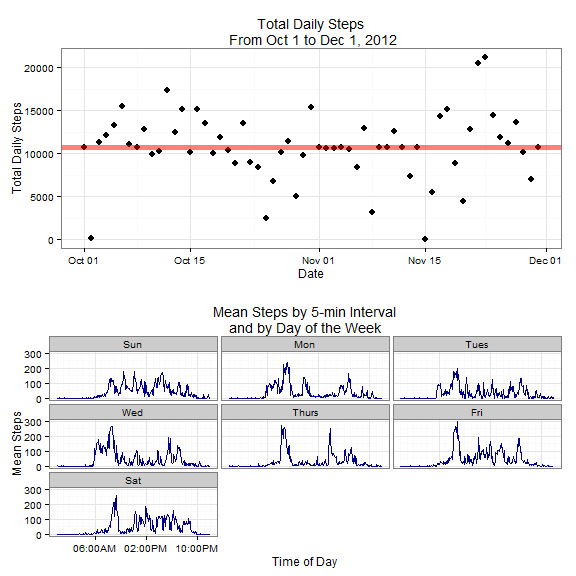
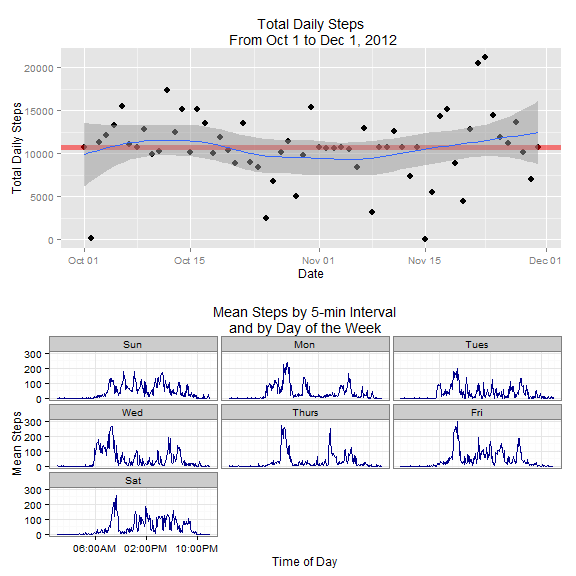
upload plots and .html final

Changed region(s): [[0.0312, 0.0625, 1.0, 0.4688]]

diff --git a/PA1_template.html b/PA1_template.html
@@ -422,9 +422,232 @@ plotX &lt;- ggplot(act5, aes(x=ymd(date),y=steps)) +
   geom_hline(yintercept=mean(act5$steps), color=&quot;red&quot;, lty=1, lwd=2, alpha=0.5) 
 plotX &lt;- plotX + labs(title=&quot;Total Daily Steps\n From Oct 1 to Dec 1, 2012&quot;, 
                       x=&quot;Date&quot;, y=&quot;Total Daily Steps&quot;) +
+  geom_smooth(method=&quot;loess&quot;, alpha=0.5)
   theme_bw()
+</code></pre>
 
-#aggregate by interval and day
+<pre><code>## List of 40
+##  $ line                :List of 4
+##   ..$ colour  : chr &quot;black&quot;
+##   ..$ size    : num 0.5
+##   ..$ linetype: num 1
+##   ..$ lineend : chr &quot;butt&quot;
+##   ..- attr(*, &quot;class&quot;)= chr [1:2] &quot;element_line&quot; &quot;element&quot;
+##  $ rect                :List of 4
+##   ..$ fill    : chr &quot;white&quot;
+##   ..$ colour  : chr &quot;black&quot;
+##   ..$ size    : num 0.5
+##   ..$ linetype: num 1
+##   ..- attr(*, &quot;class&quot;)= chr [1:2] &quot;element_rect&quot; &quot;element&quot;
+##  $ text                :List of 8
+##   ..$ family    : chr &quot;&quot;
+##   ..$ face      : chr &quot;plain&quot;
+##   ..$ colour    : chr &quot;black&quot;
+##   ..$ size      : num 12
+##   ..$ hjust     : num 0.5
+##   ..$ vjust     : num 0.5
+##   ..$ angle     : num 0
+##   ..$ lineheight: num 0.9
+##   ..- attr(*, &quot;class&quot;)= chr [1:2] &quot;element_text&quot; &quot;element&quot;
+##  $ axis.text           :List of 8
+##   ..$ family    : NULL
+##   ..$ face      : NULL
+##   ..$ colour    : NULL
+##   ..$ size      :Class &#39;rel&#39;  num 0.8
+##   ..$ hjust     : NULL
+##   ..$ vjust     : NULL
+##   ..$ angle     : NULL
+##   ..$ lineheight: NULL
+##   ..- attr(*, &quot;class&quot;)= chr [1:2] &quot;element_text&quot; &quot;element&quot;
+##  $ strip.text          :List of 8
+##   ..$ family    : NULL
+##   ..$ face      : NULL
+##   ..$ colour    : NULL
+##   ..$ size      :Class &#39;rel&#39;  num 0.8
+##   ..$ hjust     : NULL
+##   ..$ vjust     : NULL
+##   ..$ angle     : NULL
+##   ..$ lineheight: NULL
+##   ..- attr(*, &quot;class&quot;)= chr [1:2] &quot;element_text&quot; &quot;element&quot;
+##  $ axis.line           : list()
+##   ..- attr(*, &quot;class&quot;)= chr [1:2] &quot;element_blank&quot; &quot;element&quot;
+##  $ axis.text.x         :List of 8
+##   ..$ family    : NULL
+##   ..$ face      : NULL
+##   ..$ colour    : NULL
+##   ..$ size      : NULL
+##   ..$ hjust     : NULL
+##   ..$ vjust     : num 1
+##   ..$ angle     : NULL
+##   ..$ lineheight: NULL
+##   ..- attr(*, &quot;class&quot;)= chr [1:2] &quot;element_text&quot; &quot;element&quot;
+##  $ axis.text.y         :List of 8
+##   ..$ family    : NULL
+##   ..$ face      : NULL
+##   ..$ colour    : NULL
+##   ..$ size      : NULL
+##   ..$ hjust     : num 1
+##   ..$ vjust     : NULL
+##   ..$ angle     : NULL
+##   ..$ lineheight: NULL
+##   ..- attr(*, &quot;class&quot;)= chr [1:2] &quot;element_text&quot; &quot;element&quot;
+##  $ axis.ticks          :List of 4
+##   ..$ colour  : chr &quot;black&quot;
+##   ..$ size    : NULL
+##   ..$ linetype: NULL
+##   ..$ lineend : NULL
+##   ..- attr(*, &quot;class&quot;)= chr [1:2] &quot;element_line&quot; &quot;element&quot;
+##  $ axis.title.x        :List of 8
+##   ..$ family    : NULL
+##   ..$ face      : NULL
+##   ..$ colour    : NULL
+##   ..$ size      : NULL
+##   ..$ hjust     : NULL
+##   ..$ vjust     : NULL
+##   ..$ angle     : NULL
+##   ..$ lineheight: NULL
+##   ..- attr(*, &quot;class&quot;)= chr [1:2] &quot;element_text&quot; &quot;element&quot;
+##  $ axis.title.y        :List of 8
+##   ..$ family    : NULL
+##   ..$ face      : NULL
+##   ..$ colour    : NULL
+##   ..$ size      : NULL
+##   ..$ hjust     : NULL
+##   ..$ vjust     : NULL
+##   ..$ angle     : num 90
+##   ..$ lineheight: NULL
+##   ..- attr(*, &quot;class&quot;)= chr [1:2] &quot;element_text&quot; &quot;element&quot;
+##  $ axis.ticks.length   :Class &#39;unit&#39;  atomic [1:1] 0.15
+##   .. ..- attr(*, &quot;unit&quot;)= chr &quot;cm&quot;
+##   .. ..- attr(*, &quot;valid.unit&quot;)= int 1
+##  $ axis.ticks.margin   :Class &#39;unit&#39;  atomic [1:1] 0.1
+##   .. ..- attr(*, &quot;unit&quot;)= chr &quot;cm&quot;
+##   .. ..- attr(*, &quot;valid.unit&quot;)= int 1
+##  $ legend.background   :List of 4
+##   ..$ fill    : NULL
+##   ..$ colour  : logi NA
+##   ..$ size    : NULL
+##   ..$ linetype: NULL
+##   ..- attr(*, &quot;class&quot;)= chr [1:2] &quot;element_rect&quot; &quot;element&quot;
+##  $ legend.margin       :Class &#39;unit&#39;  atomic [1:1] 0.2
+##   .. ..- attr(*, &quot;unit&quot;)= chr &quot;cm&quot;
+##   .. ..- attr(*, &quot;valid.unit&quot;)= int 1
+##  $ legend.key          :List of 4
+##   ..$ fill    : NULL
+##   ..$ colour  : chr &quot;grey80&quot;
+##   ..$ size    : NULL
+##   ..$ linetype: NULL
+##   ..- attr(*, &quot;class&quot;)= chr [1:2] &quot;element_rect&quot; &quot;element&quot;
+##  $ legend.key.size     :Class &#39;unit&#39;  atomic [1:1] 1.2
+##   .. ..- attr(*, &quot;unit&quot;)= chr &quot;lines&quot;
+##   .. ..- attr(*, &quot;valid.unit&quot;)= int 3
+##  $ legend.key.height   : NULL
+##  $ legend.key.width    : NULL
+##  $ legend.text         :List of 8
+##   ..$ family    : NULL
+##   ..$ face      : NULL
+##   ..$ colour    : NULL
+##   ..$ size      :Class &#39;rel&#39;  num 0.8
+##   ..$ hjust     : NULL
+##   ..$ vjust     : NULL
+##   ..$ angle     : NULL
+##   ..$ lineheight: NULL
+##   ..- attr(*, &quot;class&quot;)= chr [1:2] &quot;element_text&quot; &quot;element&quot;
+##  $ legend.text.align   : NULL
+##  $ legend.title        :List of 8
+##   ..$ family    : NULL
+##   ..$ face      : chr &quot;bold&quot;
+##   ..$ colour    : NULL
+##   ..$ size      :Class &#39;rel&#39;  num 0.8
+##   ..$ hjust     : num 0
+##   ..$ vjust     : NULL
+##   ..$ angle     : NULL
+##   ..$ lineheight: NULL
+##   ..- attr(*, &quot;class&quot;)= chr [1:2] &quot;element_text&quot; &quot;element&quot;
+##  $ legend.title.align  : NULL
+##  $ legend.position     : chr &quot;right&quot;
+##  $ legend.direction    : NULL
+##  $ legend.justification: chr &quot;center&quot;
+##  $ legend.box          : NULL
+##  $ panel.background    :List of 4
+##   ..$ fill    : chr &quot;white&quot;
+##   ..$ colour  : logi NA
+##   ..$ size    : NULL
+##   ..$ linetype: NULL
+##   ..- attr(*, &quot;class&quot;)= chr [1:2] &quot;element_rect&quot; &quot;element&quot;
+##  $ panel.border        :List of 4
+##   ..$ fill    : logi NA
+##   ..$ colour  : chr &quot;grey50&quot;
+##   ..$ size    : NULL
+##   ..$ linetype: NULL
+##   ..- attr(*, &quot;class&quot;)= chr [1:2] &quot;element_rect&quot; &quot;element&quot;
+##  $ panel.grid.major    :List of 4
+##   ..$ colour  : chr &quot;grey90&quot;
+##   ..$ size    : num 0.2
+##   ..$ linetype: NULL
+##   ..$ lineend : NULL
+##   ..- attr(*, &quot;class&quot;)= chr [1:2] &quot;element_line&quot; &quot;element&quot;
+##  $ panel.grid.minor    :List of 4
+##   ..$ colour  : chr &quot;grey98&quot;
+##   ..$ size    : num 0.5
+##   ..$ linetype: NULL
+##   ..$ lineend : NULL
+##   ..- attr(*, &quot;class&quot;)= chr [1:2] &quot;element_line&quot; &quot;element&quot;
+##  $ panel.margin        :Class &#39;unit&#39;  atomic [1:1] 0.25
+##   .. ..- attr(*, &quot;unit&quot;)= chr &quot;lines&quot;
+##   .. ..- attr(*, &quot;valid.unit&quot;)= int 3
+##  $ panel.margin.x      : NULL
+##  $ panel.margin.y      : NULL
+##  $ strip.background    :List of 4
+##   ..$ fill    : chr &quot;grey80&quot;
+##   ..$ colour  : chr &quot;grey50&quot;
+##   ..$ size    : num 0.2
+##   ..$ linetype: NULL
+##   ..- attr(*, &quot;class&quot;)= chr [1:2] &quot;element_rect&quot; &quot;element&quot;
+##  $ strip.text.x        :List of 8
+##   ..$ family    : NULL
+##   ..$ face      : NULL
+##   ..$ colour    : NULL
+##   ..$ size      : NULL
+##   ..$ hjust     : NULL
+##   ..$ vjust     : NULL
+##   ..$ angle     : NULL
+##   ..$ lineheight: NULL
+##   ..- attr(*, &quot;class&quot;)= chr [1:2] &quot;element_text&quot; &quot;element&quot;
+##  $ strip.text.y        :List of 8
+##   ..$ family    : NULL
+##   ..$ face      : NULL
+##   ..$ colour    : NULL
+##   ..$ size      : NULL
+##   ..$ hjust     : NULL
+##   ..$ vjust     : NULL
+##   ..$ angle     : num -90
+##   ..$ lineheight: NULL
+##   ..- attr(*, &quot;class&quot;)= chr [1:2] &quot;element_text&quot; &quot;element&quot;
+##  $ plot.background     :List of 4
+##   ..$ fill    : NULL
+##   ..$ colour  : chr &quot;white&quot;
+##   ..$ size    : NULL
+##   ..$ linetype: NULL
+##   ..- attr(*, &quot;class&quot;)= chr [1:2] &quot;element_rect&quot; &quot;element&quot;
+##  $ plot.title          :List of 8
+##   ..$ family    : NULL
+##   ..$ face      : NULL
+##   ..$ colour    : NULL
+##   ..$ size      :Class &#39;rel&#39;  num 1.2
+##   ..$ hjust     : NULL
+##   ..$ vjust     : NULL
+##   ..$ angle     : NULL
+##   ..$ lineheight: NULL
+##   ..- attr(*, &quot;class&quot;)= chr [1:2] &quot;element_text&quot; &quot;element&quot;
+##  $ plot.margin         :Class &#39;unit&#39;  atomic [1:4] 1 1 0.5 0.5
+##   .. ..- attr(*, &quot;unit&quot;)= chr &quot;lines&quot;
+##   .. ..- attr(*, &quot;valid.unit&quot;)= int 3
+##  - attr(*, &quot;class&quot;)= chr [1:2] &quot;theme&quot; &quot;gg&quot;
+##  - attr(*, &quot;complete&quot;)= logi TRUE
+</code></pre>
+
+<pre><code class="r">#aggregate by interval and day
 act6 &lt;- act3 %&gt;%
         group_by(interval, dow) %&gt;%
         summarize(steps=mean(steps))
@@ -443,7 +666,7 @@ plotY &lt;- plotY +
 grid.arrange(plotX, plotY, nrow=2)
 </code></pre>
 
[2 lines of base64/hex data omitted]
 
 </body>
 
